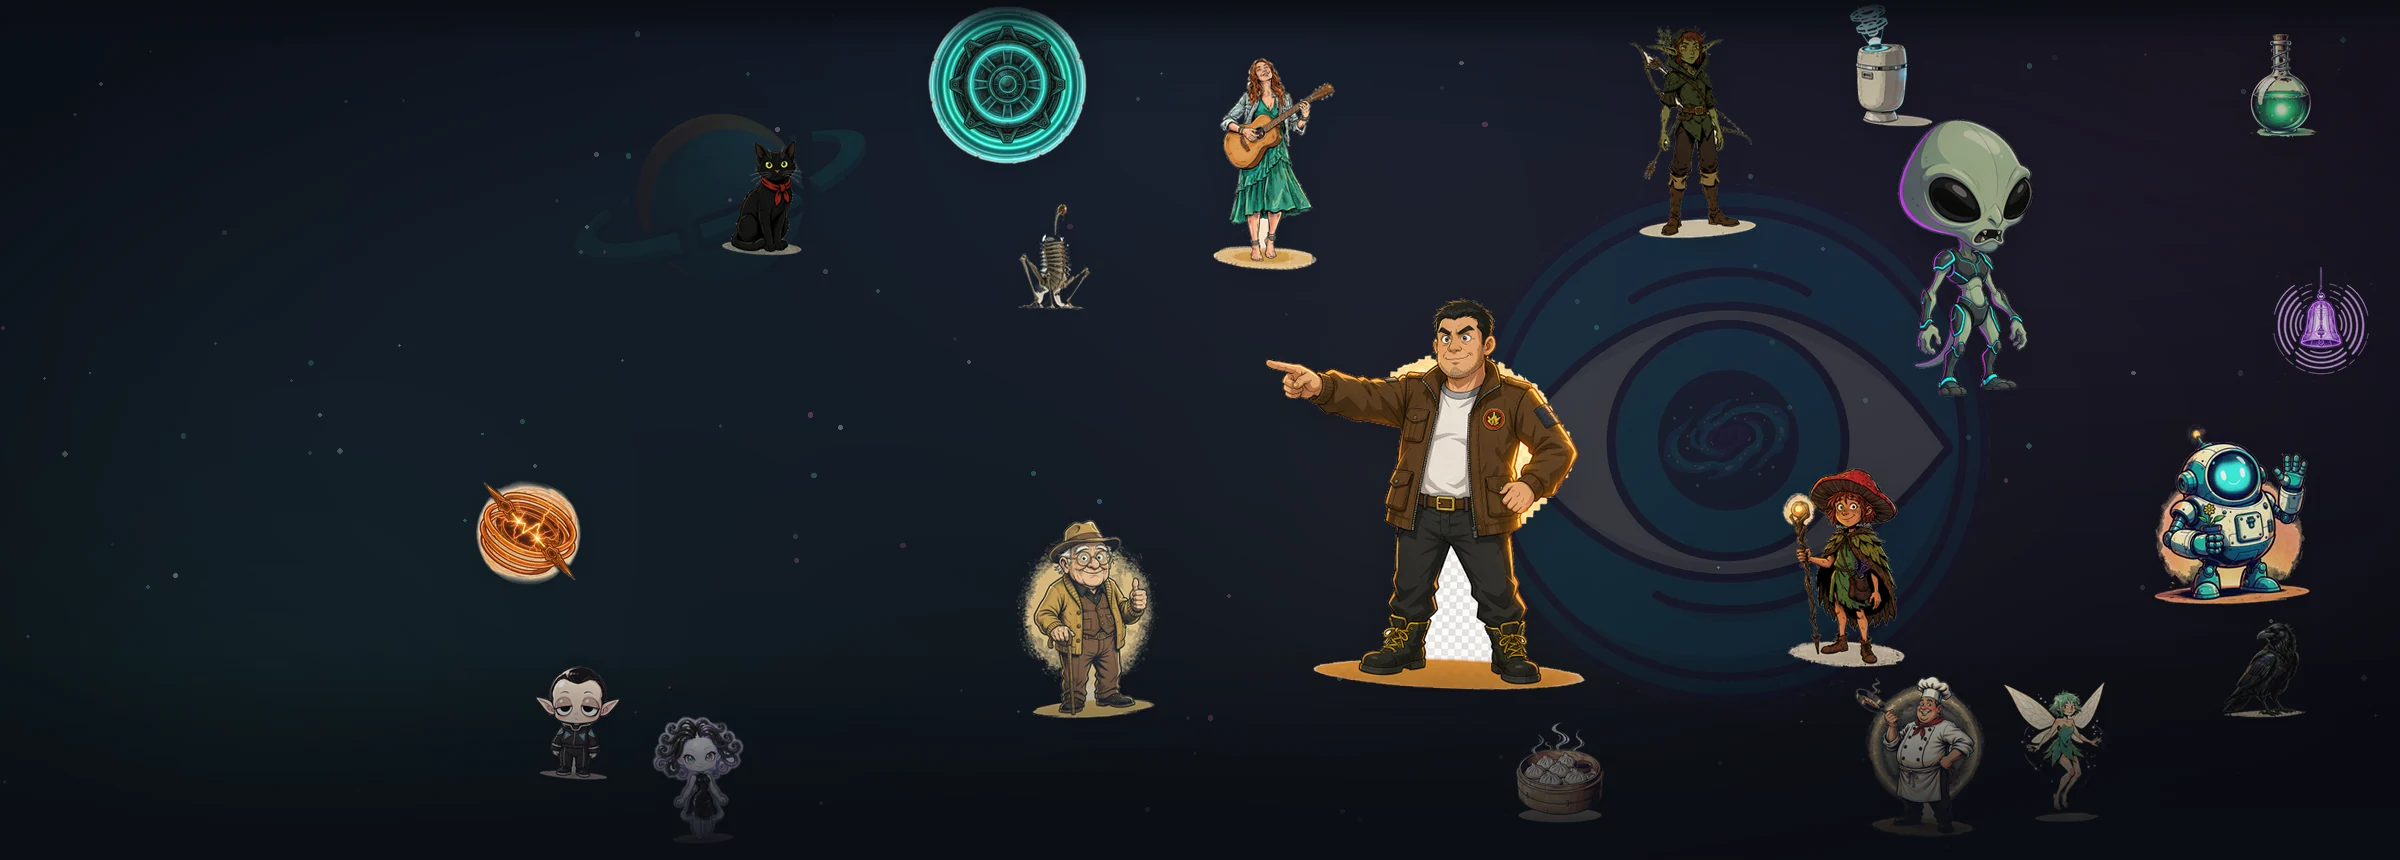
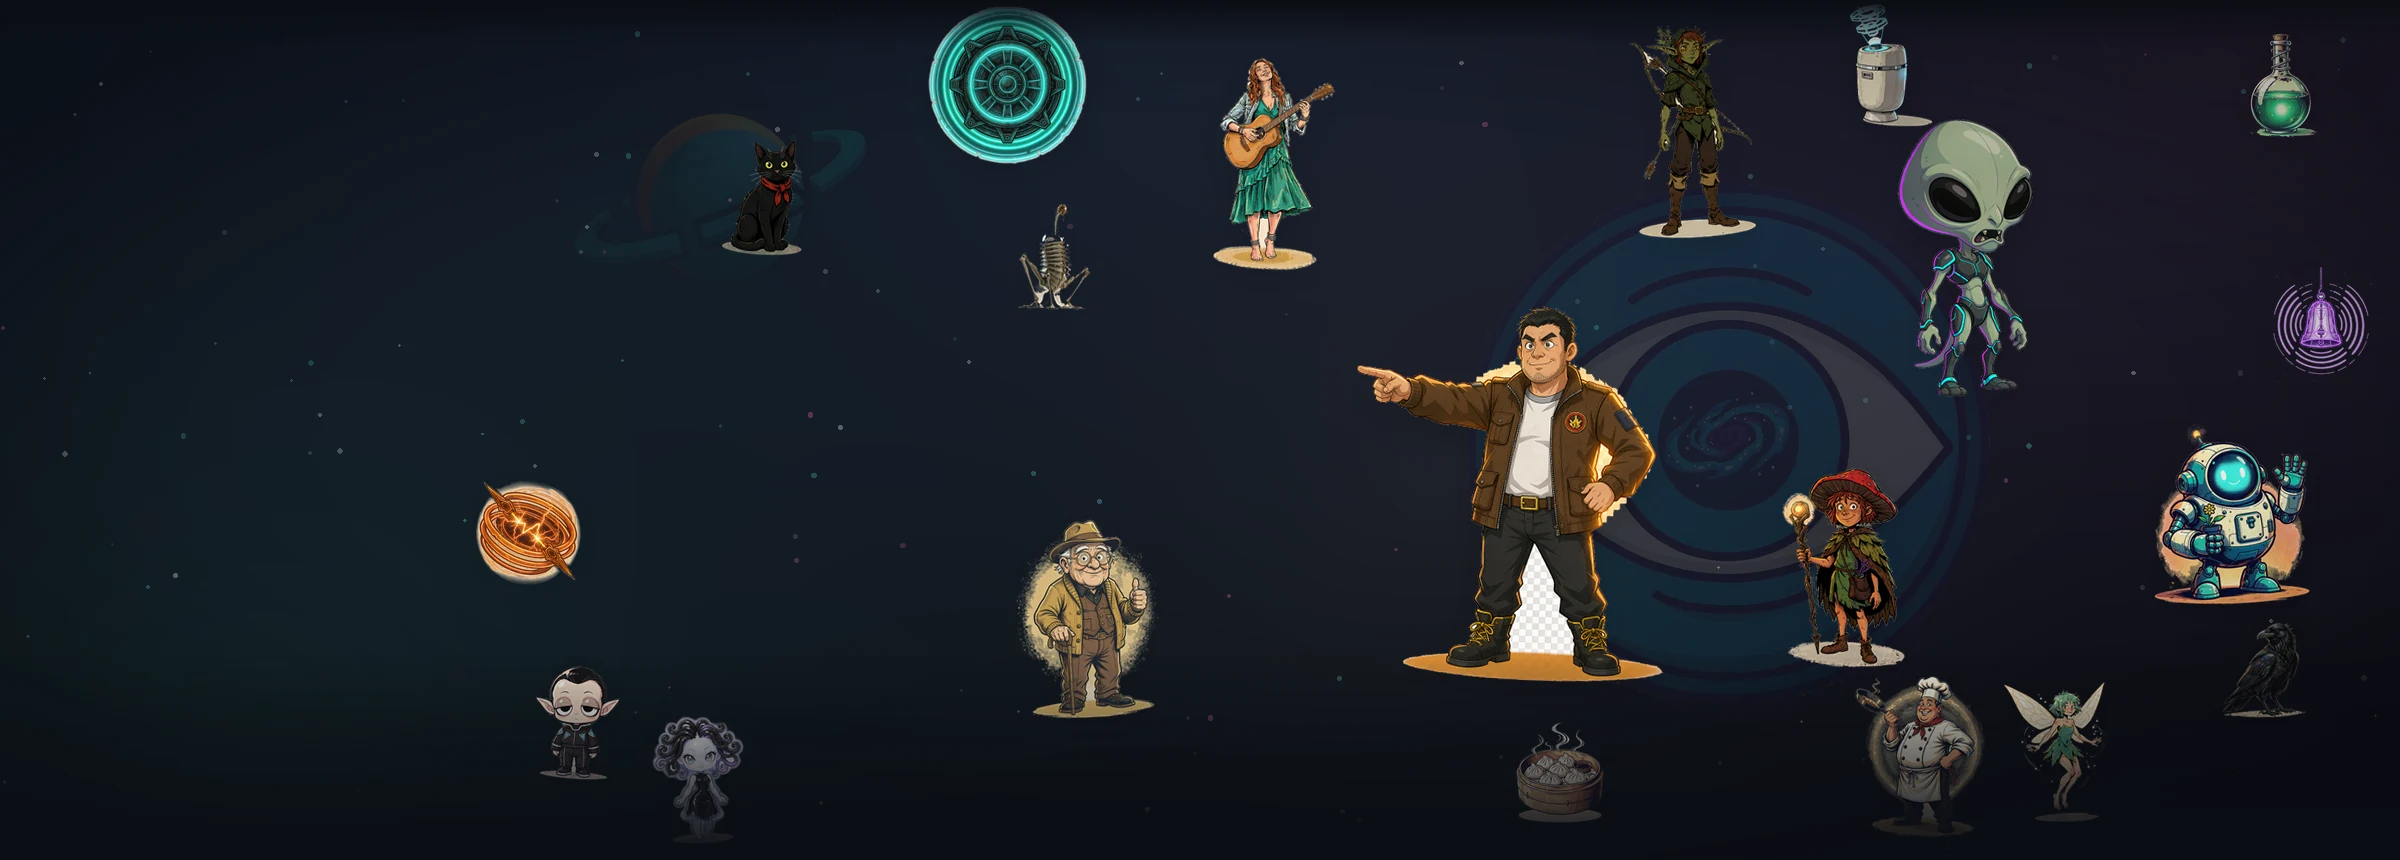
fix: 宣传横幅不再压老张的脸——文字整体缩小 + 小人给文字让位
- 海报布局：桌面老张右移（.60→.635）缩小（.50→.48）；移动版老张挪到
  (.72,.42) 给顶部文字腾安全区，巫女/机器人/小精灵联动微调，棱晶潜猎者退出移动版
- 网页文字：标题 clamp(30px,4.4vw,54px) → clamp(26px,3.4vw,44px)，副标题限宽 430px
- 压暗渐变收窄（桌面 0 位 62%→52%，移动 0 位 86%→72%），小人露出更多
- 移动端精简：副标题收起（关键信息本就在数据胶囊里），标题 26px、间距收紧
- 新增 721–1080px 中宽屏规则：桌面图取景偏右 62%，减少果克星人被裁

Changed region(s): [[0.5312, 0.3628, 0.6875, 0.8163]]

diff --git a/styles.css b/styles.css
@@ -94,8 +94,8 @@ body {
 .hero-scrim {
   position: absolute; inset: 0;
   background: linear-gradient(100deg,
-    rgba(11, 14, 20, .92) 0%, rgba(11, 14, 20, .66) 26%,
-    rgba(11, 14, 20, .20) 46%, rgba(11, 14, 20, 0) 62%);
+    rgba(11, 14, 20, .86) 0%, rgba(11, 14, 20, .60) 24%,
+    rgba(11, 14, 20, .18) 40%, rgba(11, 14, 20, 0) 52%);
 }
 .hero-inner { position: relative; padding: 64px 20px; }
 .hero-kicker {
@@ -103,12 +103,12 @@ body {
   color: var(--accent); text-transform: uppercase; margin-bottom: 14px;
 }
 .hero-title {
-  font-size: clamp(30px, 4.4vw, 54px); line-height: 1.22;
-  font-weight: 700; letter-spacing: .5px;
+  font-size: clamp(26px, 3.4vw, 44px); line-height: 1.25;
+  font-weight: 700; letter-spacing: .5px; max-width: 480px;
   text-shadow: 0 2px 18px rgba(11, 14, 20, .65);
 }
 .hero-sub {
-  margin-top: 14px; max-width: 470px;
+  margin-top: 14px; max-width: 430px;
   color: var(--muted); font-size: 15px;
   text-shadow: 0 1px 10px rgba(11, 14, 20, .85);
 }
@@ -312,7 +312,12 @@ body {
   .lb-stage img { max-height: 46vh; }
   .toolbar { top: 117px; }
 }
-/* 宣传横幅移动端：换竖版构图，文字置顶，暗角从上往下压 */
+/* 中宽屏（721–1080）：桌面图横向取景稍偏右，让果克星人那几位少被裁掉 */
+@media (max-width: 1080px) {
+  .hero-bg { background-position: 62% 62%; }
+}
+/* 宣传横幅移动端：换竖版构图，文字置顶且精简（副标题收起，关键信息看数据胶囊），
+   暗角从上往下压，给老张和下方小人留出不被文字盖住的区域 */
 @media (max-width: 720px) {
   .hero { min-height: 480px; align-items: flex-start; }
   .hero-bg {
@@ -321,13 +326,15 @@ body {
   }
   .hero-scrim {
     background: linear-gradient(180deg,
-      rgba(11, 14, 20, .94) 0%, rgba(11, 14, 20, .74) 32%,
-      rgba(11, 14, 20, .28) 60%, rgba(11, 14, 20, 0) 86%);
+      rgba(11, 14, 20, .90) 0%, rgba(11, 14, 20, .58) 28%,
+      rgba(11, 14, 20, .16) 48%, rgba(11, 14, 20, 0) 72%);
   }
-  .hero-inner { padding: 46px 20px 64px; }
-  .hero-sub { font-size: 14px; }
-  .hero-pills { margin-top: 18px; }
-  .hero-cta { margin-top: 22px; }
+  .hero-inner { padding: 40px 20px 56px; }
+  .hero-kicker { margin-bottom: 8px; }
+  .hero-title { font-size: 26px; max-width: 260px; }
+  .hero-sub { display: none; }
+  .hero-pills { margin-top: 14px; }
+  .hero-cta { margin-top: 16px; }
 }
 @media (max-width: 560px) {
   .grid { grid-template-columns: repeat(auto-fill, minmax(150px, 1fr)); gap: 12px; }

diff --git a/tools/make_hero_bg.py b/tools/make_hero_bg.py
@@ -45,7 +45,7 @@ DESKTOP = [
     ("planet_eye_t.png",          .720, .520, .78,  0, .13),
     ("planet_shard_ring_t.png",   .300, .230, .42,  0, .10),
     # 主角们（右侧成星座，左侧留白给 HTML 文案）
-    ("hero_t.png",                .600, .575, .50, -2, 1.0),     # 老张（看板小人）
+    ("hero_t.png",                .635, .575, .48, -2, 1.0),     # 老张（看板小人）
     ("alien.png",                 .820, .300, .35,  2, 1.0),     # 果克星人
     ("figure_witch_mushroom_t.png", .770, .660, .25, -3, 1.0),   # 蘑菇帽巫女
     ("figure_robot_t.png",        .930, .600, .24,  2, 1.0),     # 小机器人
@@ -71,15 +71,15 @@ DESKTOP = [
 MOBILE = [
     ("planet_eye_t.png",          .640, .260, .48,  0, .10),
     ("planet_shard_ring_t.png",   .164, .520, .30,  0, .10),
-    ("hero_t.png",                .660, .300, .24, -2, 1.0),
+    ("hero_t.png",                .720, .420, .24, -2, 1.0),   # 老张：右下挪，给顶部文字让位
     ("alien.png",                 .280, .580, .21,  2, 1.0),
-    ("figure_witch_mushroom_t.png", .760, .560, .19, -3, 1.0),
-    ("figure_robot_t.png",        .870, .740, .16,  2, 1.0),
+    ("figure_witch_mushroom_t.png", .780, .620, .19, -3, 1.0),
+    ("figure_robot_t.png",        .880, .780, .16,  2, 1.0),
     ("figure_grandpa_t.png",      .360, .840, .17,  3, 1.0),
     ("figure_elf_woodland_t.png", .540, .760, .16,  3, 1.0),
     ("figure_musician_t.png",     .170, .440, .15, -2, 1.0),
     ("figure_chef_t.png",         .130, .640, .13, -2, 1.0),
-    ("figure_fairy_lattice_t.png", .880, .900, .12,  2, 1.0),
+    ("figure_fairy_lattice_t.png", .920, .940, .12,  2, 1.0),
     ("gucck_male_t.png",          .060, .860, .10, -4, 1.0),
     ("gucck_female_t.png",        .150, .910, .095, 3, 1.0),
     ("cr_cat_t.png",              .820, .240, .10, -3, 1.0),
@@ -87,7 +87,6 @@ MOBILE = [
     ("potion_teal_round_t.png",   .780, .100, .10,  0, 1.0),
     ("tech_holo_t.png",           .880, .400, .11, -2, 1.0),
     ("food_dumpling_t.png",       .250, .940, .09,  0, 1.0),
-    ("xeno-prism-stalker_t.png",  .620, .660, .10, -2, 1.0),
     ("zone_bass.png",             .473, .300, .12,  0, 1.0),
     ("zone_bell.png",             .930, .120, .10,  0, 1.0),
     ("zone_lead.png",             .080, .560, .10,  0, 1.0),
